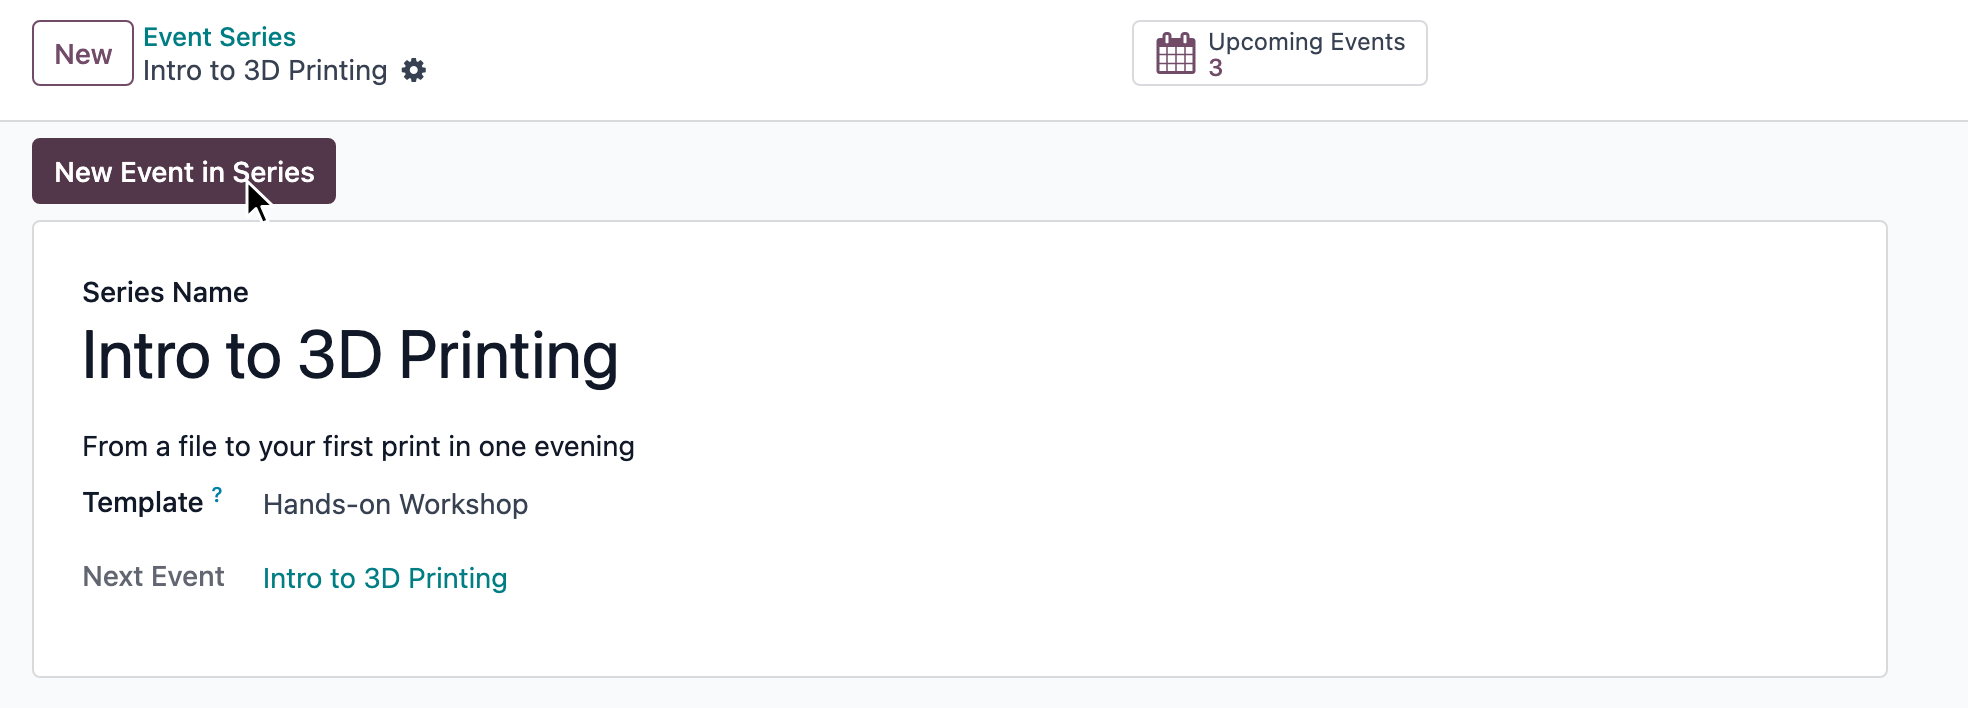
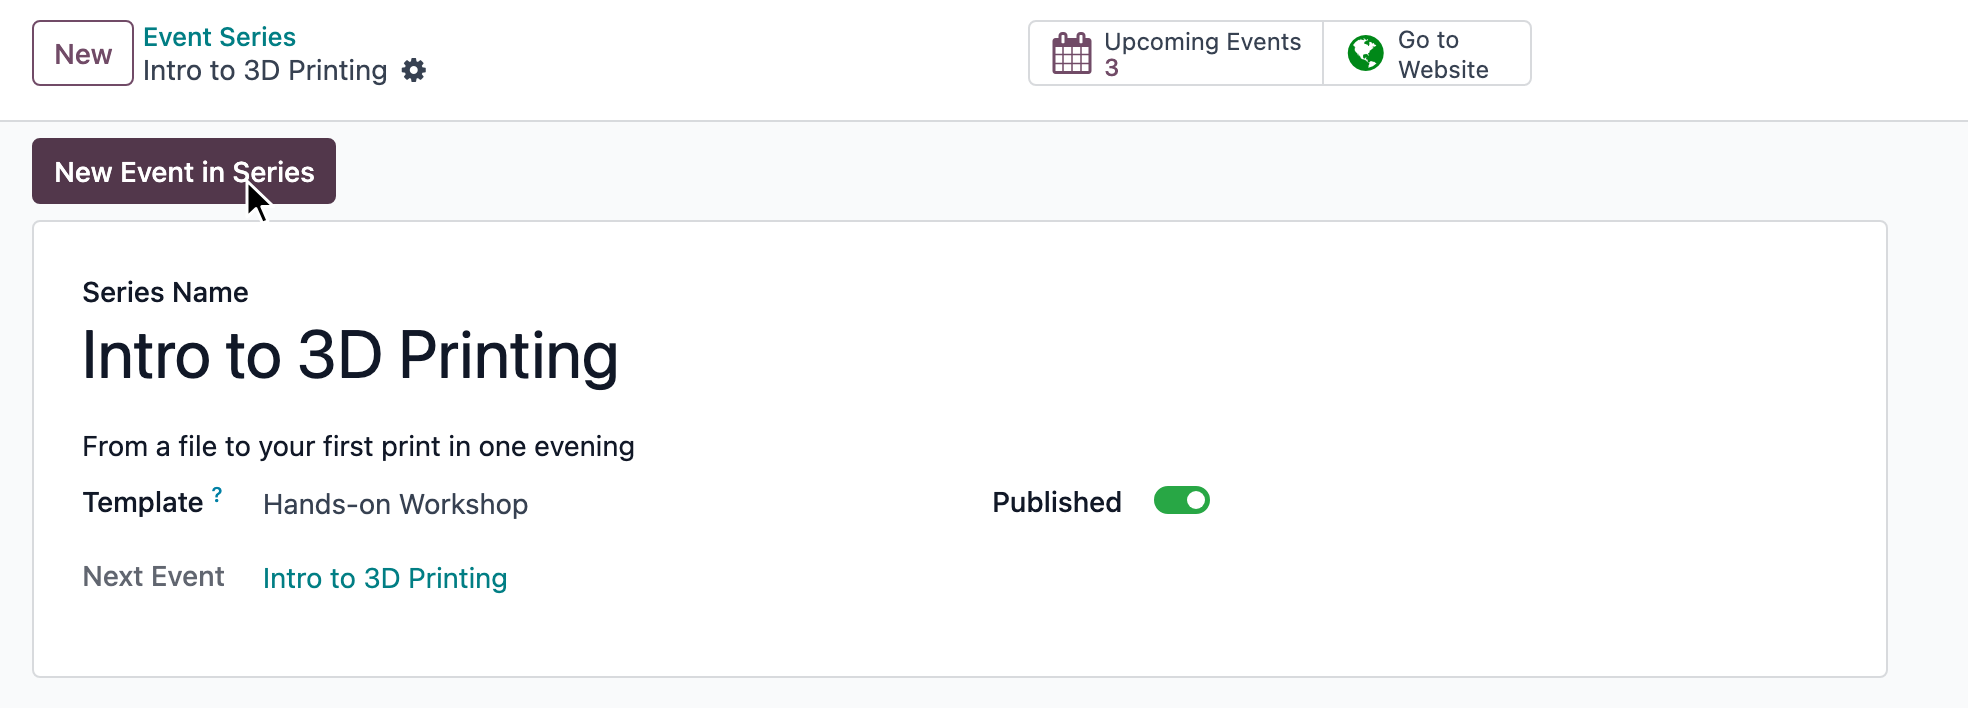
Point Event Series back to its website companion, and seed the series' pages
- vmk_event_series' store page, manual, and README name Event Series (Website) again, with a link to its 18.0 listing, now that the companion is ported.
- The demo seed publishes the two series with stock covers, and the Event Series recipe copies its form screenshot to the companion as series_form.png; the screenshot and cover show the series form with its website settings.
- DEVELOPING.md lists vmk_website_event_series, records that it has no scheduled publishing here and what carrying it found, and leaves vmk_colorlist_colors as the one module still to come.

Changed region(s): [[0.5269, 0.0311, 0.7749, 0.1243], [0.4959, 0.6836, 0.6199, 0.7458]]

diff --git a/vmk_event_series/static/description/index.html b/vmk_event_series/static/description/index.html
@@ -15,6 +15,11 @@
                     ordinary event, with its own tickets, seats, and registrations, and the series simply groups them
                     together.
                 </p>
+                <p style="font-family:-apple-system, system-ui, 'Segoe UI', Roboto, 'Helvetica Neue', Ubuntu, 'Noto Sans', Arial, sans-serif; font-size:14px; font-weight:400; line-height:21px; color:light-dark(#111827, #E4E4E4); margin:0 0 16px;">
+                    <b>Publishing events on your website?</b> Use
+                    <a href="https://apps.odoo.com/apps/modules/18.0/vmk_website_event_series" target="_blank" style="color:light-dark(#502582, #B69BE6);"><b>Event Series (Website)</b></a> instead: it includes this module, and also
+                    gives each event series a page on your website, listing all of the upcoming dates.
+                </p>
             </div>
         </div>
     </div>
@@ -64,7 +69,7 @@
                 </p>
                 <p style="font-family:-apple-system, system-ui, 'Segoe UI', Roboto, 'Helvetica Neue', Ubuntu, 'Noto Sans', Arial, sans-serif; font-size:14px; font-weight:400; line-height:21px; color:light-dark(#111827, #E4E4E4); margin:0 0 16px;">
                     This module only requires <b>Events Organization</b>, the backend part of the
-                    <b>Events</b> app.
+                    <b>Events</b> app, and by itself changes nothing on a website.
                 </p>
             </div>
         </div>

diff --git a/tools/shots/demo/seed.py b/tools/shots/demo/seed.py
@@ -22,6 +22,7 @@ right before capturing vmk_event_registration_deadline's public page:
     (cat tools/shots/demo/seed.py; echo "open_studio_evening(env)") | SERIES=18.0 DB=shots odev shell
 """
 import base64
+import json
 from datetime import datetime, timedelta, timezone
 from zoneinfo import ZoneInfo
 
@@ -289,10 +290,9 @@ assert rosa.email == "rosa.vidal@example.com" and lead.partner_id == rosa
 
 
 # ---------------------------------------------------------------------------
-# Event Series: two series, each with dates on the coming Tuesdays or Saturdays,
-# counted from the day this runs so that they stay upcoming, and one past date.
-# A template for the first. (Odoo 18 has no website page for a series, so there
-# is no cover or publishing to seed.)
+# Event Series: two published series, each with dates on the coming Tuesdays or
+# Saturdays, counted from the day this runs so that they stay upcoming, and one
+# past date. A template for the first.
 # ---------------------------------------------------------------------------
 if "vmk.event.series" in env:
     Series = env["vmk.event.series"]
@@ -322,6 +322,12 @@ if "vmk.event.series" in env:
     studio = find_or_create_partner("Valencia Makers Studio", is_company=True)
     studio.write({"city": "Valencia", "country_id": spain.id, "parent_id": company.partner_id.id})
 
+    def cover(image):
+        """Cover properties with one of website_event's stock images, on the dark preset (o_cc5) so
+        a series' title reads in white over it, at the mixin's default half-screen height."""
+        return json.dumps({"background_color_class": "o_cc5", "background-image": f"url('/website_event/static/src/img/{image}')",
+                           "opacity": "0.4", "resize_class": "o_half_screen_height"})
+
     def series_dates(series, weekday, hour, hours, weeks, past=None):
         """Dates on `weekday` (0 is Monday), `weeks` weeks apart, the first in the coming week;
         and with `past`, one that ended `past` weeks ago. Recreated on every run, so they stay
@@ -342,6 +348,7 @@ if "vmk.event.series" in env:
                     "date_end": dt(day.year, day.month, day.day, hour + hours),
                     "address_id": studio.id,
                     "website_published": True,
+                    "cover_properties": series.cover_properties,
                 }
             )
 
@@ -349,11 +356,15 @@ if "vmk.event.series" in env:
         "Intro to 3D Printing",
         subtitle="From a file to your first print in one evening",
         event_type_id=workshop.id,
+        website_published=True,
+        cover_properties=cover("event_training_0.jpg"),
     )
     series_dates(intro, 1, 18, 3, [0, 2, 4], past=2)
     laser = find_or_create_series(
         "Laser Cutting Basics",
         subtitle="Design, cut, and engrave a project of your own",
+        website_published=True,
+        cover_properties=cover("training.jpg"),
     )
     series_dates(laser, 5, 10, 4, [1, 5])
 

diff --git a/tools/shots/recipes/vmk_event_series.py b/tools/shots/recipes/vmk_event_series.py
@@ -4,9 +4,10 @@
 # ///
 """Event Series: a series' form, and the events list grouped by series.
 
-Writes main_screenshot.png and events_by_series.png.
+Writes main_screenshot.png and events_by_series.png, and copies main_screenshot.png to Event Series
+(Website) as series_form.png, which that module's cover shows.
 """
-import asyncio, sys
+import asyncio, shutil, sys
 from pathlib import Path
 from playwright.async_api import async_playwright
 sys.path.insert(0, str(Path(__file__).resolve().parent.parent))
@@ -64,4 +65,7 @@ async def main(out):
 if __name__ == "__main__":
     out = shots.out_dir("vmk_event_series", sys.argv)
     asyncio.run(main(out))
+    if "--out" not in sys.argv:
+        shutil.copyfile(out / "main_screenshot.png",
+                        out.parent.parent.parent / "vmk_website_event_series/static/description/series_form.png")
     print("wrote", out)

diff --git a/DEVELOPING.md b/DEVELOPING.md
@@ -21,8 +21,10 @@ was verified against the series of the branch you are reading.
 - **`vmk_event_registration_deadline`** — stop selling registrations when an event starts, or a set
   time before; per-event override, and the same rule applied to slots.
 - **`vmk_event_series`** — group the dates of an event run again and again into one series; a plain
-  link on each event. Its website companion, `vmk_website_event_series`, and `vmk_colorlist_colors`
-  are on 20.0 only (see _Not ported_ below).
+  link on each event.
+- **`vmk_website_event_series`** — a page on the website for each event series, an index of them, a
+  link from each event's page, and a Series filter on the `/event` listing; `auto_install`. Ported
+  from 19.0 without scheduled publishing (see _Ported without a feature_ below).
 - **`vmk_mass_mailing_double_optin`** — confirmation by email for new mailing list subscriptions,
   and a log of every consent change.
 - **`vmk_partner_email_multiple`** — several email addresses per contact, matched by Odoo's own
@@ -33,12 +35,15 @@ was verified against the series of the branch you are reading.
 Read the existing modules' `README.md` files before writing another; between them they document most
 of the traps below in context.
 
-**Not ported from 20.0, on purpose** (26 November 2026): `vmk_website_event_series` schedules a
-series' publishing with `publish_on` and `action_unschedule`, which Odoo 20 added to the website
-mixins together with a cron; 18's mixins have none, so a port would mean reimplementing that
-feature. `vmk_colorlist_colors` sets the lists `$o-colors-border`, `$o-colors-bg-subtle`, and
-`$o-colors-text-emphasis`, which only 20's SCSS reads, so on 18 it would have nothing to feed.
-Neither is on 19.0 either, for now.
+**Ported without a feature** (26 November 2026): `vmk_website_event_series` has no scheduled
+publishing here. On 20 a series has `publish_on` and `action_unschedule`, which Odoo 20 added to the
+website mixins together with a cron; 18's mixins have none and an event cannot be scheduled either,
+so a series has the Published toggle only, as an event does, and we do not reimplement what core
+lacks (decided 26 November 2026).
+
+**Not ported from 20.0, on purpose** (26 November 2026): `vmk_colorlist_colors` sets the lists
+`$o-colors-border`, `$o-colors-bg-subtle`, and `$o-colors-text-emphasis`, which only 20's SCSS
+reads, so on 18 it would have nothing to feed. Its port to this branch is still to come, as to 19.0.
 
 ## Branches — one per Odoo series
 
@@ -644,6 +649,14 @@ checked there yet.
   wrapper in the XML is not part of the msgid on 18, so a translation carried from 19 loses the
   `<div>` and `</div>` at its ends. It also leaves out the `display_name` and `id` field entries of
   an inherited model, so a catalogue brought from 19 sheds those `#:` lines.
+- **What carrying `vmk_website_event_series` found** (26 November 2026): `website.record_cover`
+  takes its variables from `t-set` children on 18, as `website_event` does it; a `_record="series"`
+  attribute on the `t-call` is 19's, and fails with `KeyError: '_record'`. The `/event` listing
+  hands the template `keep`, not `keep_event_url`, and `events()` and `_get_events_search_options()`
+  take no `slug_tags`. The filter panel's Date and Country entries replace placeholder spans
+  (`o_wevent_offcanvas_date`), so an anchor on `accordion-item` repeats per category, and one on a
+  span is gone once core's views apply; add the entry inside `.accordion`. There is no
+  `website.unpublished_badge`, and `res.users` has `groups_id`, not `group_ids`.
 - **Core's Spanish disagrees with itself on a model's name**: `mail` translates _Mail Blacklist_ as
   "Lista negra de correos", `mass_mailing` as "Lista negra de correo " with a trailing space. We
   take the module that owns the model, `mail`.

diff --git a/tools/shots/README.md b/tools/shots/README.md
@@ -68,10 +68,11 @@ ordinary event rather than a multi-slot one. What it makes:
   purple (`demo/rosa_vidal.png`), and a lead that arrived by email from one of them. The lead goes
   through the mail gateway, so its contact is found the way real mail finds it; `seed.py` recreates
   the lead on every run, so it stays matched to Rosa even after an unrelated re-seed.
-- for Event Series, two series, **Intro to 3D Printing** (on a **Hands-on Workshop** template) and
-  **Laser Cutting Basics**, with dates at a **Valencia Makers Studio** venue in Valencia. The dates
-  are counted from the day the seed runs, on the coming Tuesdays and Saturdays, plus one past date,
-  and are recreated on every run, so they stay upcoming whenever the screenshots are retaken.
+- for Event Series and its website companion, two published series, **Intro to 3D Printing** (on a
+  **Hands-on Workshop** template) and **Laser Cutting Basics**, each with a stock cover from
+  `website_event` and dates at a **Valencia Makers Studio** venue in Valencia. The dates are counted
+  from the day the seed runs, on the coming Tuesdays and Saturdays, plus one past date, and are
+  recreated on every run, so they stay upcoming whenever the screenshots are retaken.
 - for Double Opt-In, two mailing lists, **Newsletter** and **Workshop Announcements**, and five
   subscribers: four who signed up on the website as the public user, as core's newsletter block does
   (Rosa and Ana confirmed, Ana later left one list, **Jordi Puig** and Lucía still awaiting

diff --git a/vmk_event_series/README.md b/vmk_event_series/README.md
@@ -5,12 +5,15 @@ Each date stays an ordinary event, with its own tickets, seats, and registration
 what they share, and lists them.
 
 **How to use it** is in the user documentation, [`doc/index.rst`](doc/index.rst), which the Odoo
-Apps Store also shows on the module's page, together with the changelog.
+Apps Store also shows on the module's page, together with the changelog. A series' description
+belongs to its page on the website, and comes with the website module.
 
-It depends only on `event` (_Events Organization_). **On Odoo 18 a series has no page on the
-website:** its website companion, `vmk_website_event_series`, is not ported to this series, because
-it relies on scheduled publishing (`publish_on`), which Odoo's website mixins only gained in 20.
-LGPL-3, © 2026 Valencia Makers, SL.
+It depends only on `event` (_Events Organization_). The _Events_ app is `website_event`, which
+brings the website with it, so most databases have both; there the companion module
+[`vmk_website_event_series`](../vmk_website_event_series) installs itself from a clone of this repo
+and gives each series a page of its own. From the Apps Store, website users download the companion
+instead: it depends on this module, so the store includes both, while this module's own download
+does not include the companion. LGPL-3, © 2026 Valencia Makers, SL.
 
 ## For developers
 

diff --git a/vmk_event_series/doc/index.rst b/vmk_event_series/doc/index.rst
@@ -9,6 +9,11 @@ tickets, seats, and registrations, and the series simply groups them together.
 Install **Event Series** from the Apps menu. It only requires **Events Organization**, the backend
 part of the **Events** app.
 
+If you publish events on your website, install `Event Series (Website)
+<https://apps.odoo.com/apps/modules/18.0/vmk_website_event_series>`_ instead: it includes this
+module, and also gives each event series a page on your website, listing all of the upcoming dates.
+If you start publishing events online later, install Event Series (Website) then.
+
 **Using it**
 
 #. Open **Events › Series** and click **New**.
@@ -38,7 +43,8 @@ the registration desk can read them.
   price, is made on each one, as in standard Odoo.
 - **A series with events can't be deleted**, only archived, so no event is left pointing at nothing.
   A series without events can be deleted.
-- **A series has no page on the website.** It exists in the backend only.
+- **On its own, this module doesn't change the website.** **Event Series (Website)** gives each
+  series a page.
 
 **Languages**
 
